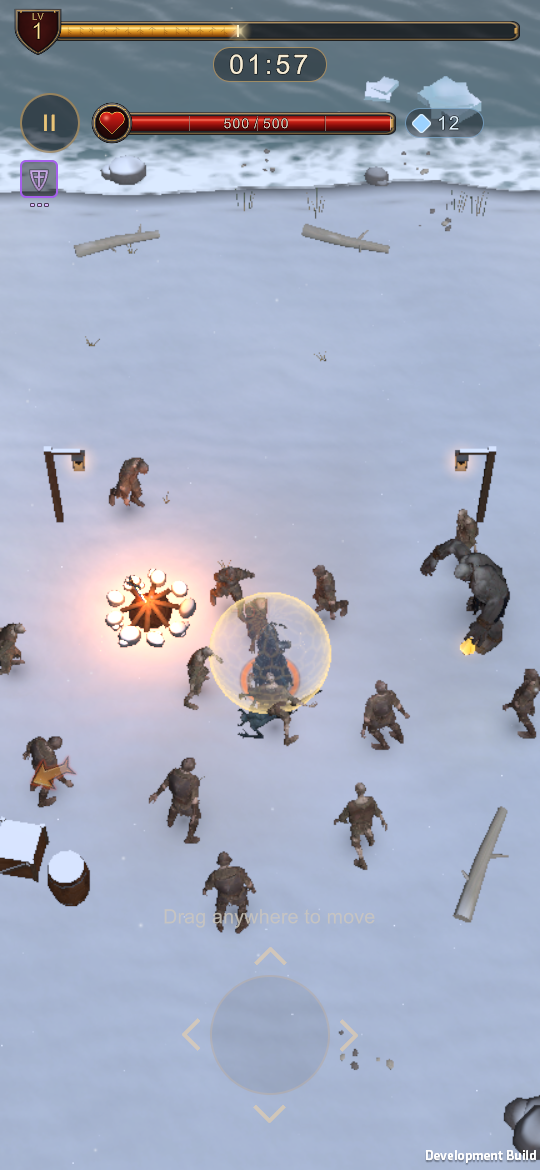
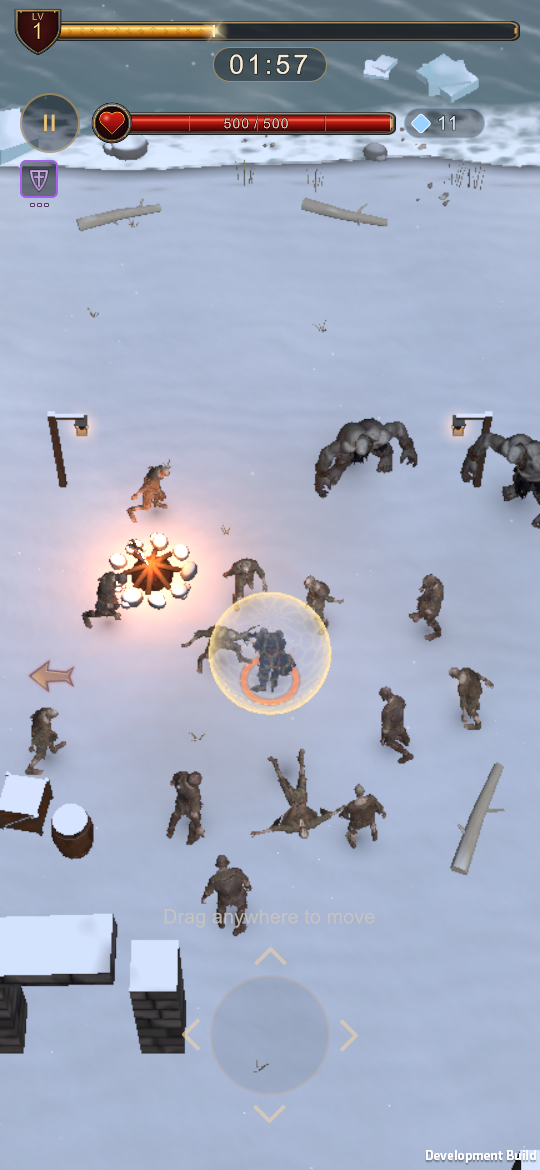
docs: KAN-93 state after merging KAN-187 (tests, mortal horde shot) (KAN-93)

diff --git a/STATE.md b/STATE.md
@@ -831,8 +831,8 @@
   - Sound (`SfxBuilder`): `sfx_ward_up_01` (whoosh + D3 hum + D5/A5 fifth), `sfx_ward_block_01..02` (glassy tink), `sfx_ward_down_01` (soft shatter). `GameAudio` fields `wardUps / wardBlocks / wardDowns`, wired by `GameSceneBuilder`. Icon: heater shield + cross (`SkillIconPainter.Ward`).
   - Balance: in the level 4 tier at weight 1 the shield cut level 10 single-target power (power curve) to 2.45x, under the `SingleTargetBalanceTests` floor 2.5x. A 2000-run probe showed main itself is at 2.44-2.46x; the 2.54x was 200-run seed luck (seeds 11 / 23 read 2.46x). The test now simulates 2000 runs and the level 10 floor is 2.4x (now 2.44x). Other KAN-86 targets unchanged and pass (L20 4.14x, gap 5.9). Raising the true level 10 mean back to 2.5x = follow-up ticket.
   - Tests: new `Tests/PlayMode/HallowedShieldTests` (12): shipped asset (Epic, 3 levels, tier 6, weight), level values (3 cases), first ward at 1 s / duration / cooldown from the end / second ward, upgrade while cooling, all damage blocked + shield pool untouched + damage lands after, bubble on / flicker / off, warded discrete hit raises no `OnHit` (KAN-187), death, reset run clears the ward + keeps the boss-intro flag, no GC per frame. `SkillLevelTableTests` sheet rows + count 15, `SkillRarityTests` tier.
-  - Dev shots: `-ss-scene Game -ss-skills temporary_shield:3 -ss-horde 18 -ss-immortal -ss-delay 3.5` (`Docs/screenshots/kan93-ward-horde.png`), `-ss-closeup 20 -ss-delay 3.2` (`kan93-ward-closeup.png`).
-  - Verified: compile 0 errors / 0 new warnings; Game scene rebuild exit 0 (no diff on the final code); EditMode 196 pass; PlayMode 760: 758 pass, 2 skipped (soak), 0 fail; mac dev build + 2 shot runs, 0 exceptions (horde shot 81 draw calls, 16.4 ms main thread). iPhone not deployed: night run, phone locked.
+  - Dev shots: `-ss-scene Game -ss-skills temporary_shield:3 -ss-horde 18 -ss-delay 3.5` (`Docs/screenshots/kan93-ward-horde.png`: mortal Knight inside the horde, still 500 / 500), `-ss-closeup 20 -ss-delay 3.2` (`kan93-ward-closeup.png`).
+  - Verified: compile 0 errors / 0 new warnings; Game scene rebuild exit 0 (no diff on the final code); After merging main (KAN-187): EditMode 196 pass; PlayMode 775: 773 pass, 2 skipped (soak), 0 fail; mac dev build + shot runs, 0 exceptions (horde shot 78 draw calls, 16.6 ms main thread). iPhone not deployed: night run, phone locked.
   - Limits / follow-ups: no HUD cooldown readout on the skill slot (the bubble is the only cue) + iPhone feel check = KAN-192; true level 10 single-target power back to 2.5x = KAN-191. Ward does not pause during the boss intro (Invulnerable covers it). Merged with KAN-187 (hurt feedback): `TakeDamage(amount, source)` returns at once while warded, so a blocked hit raises no `OnHit` (no hit arc, hit-stop, shake or grunt); the ward flash + tink are the feedback.
 
 ## DECISIONS
